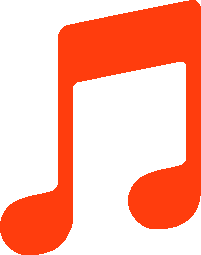
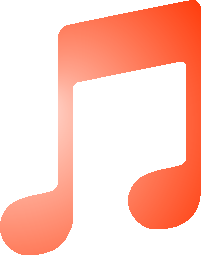
A

diff --git a/src/Components/Header/Header.js b/src/Components/Header/Header.js
@@ -20,24 +20,18 @@ export default function Header(props){
     const history=useHistory();
     return (
         <View style={css.header}>
-            <View style={css.row0}>
-                <AntDesign name="banckward" {...css.arrow} onPress={()=>{
-                    if(state.pathindex){
-                        state.pathindex--;
-                        history.goBack();
-                    }
-                }}/>
-                <Text style={css.title}>Animator</Text>
-                <AntDesign name="forward" {...css.arrow} onPress={()=>{
-                    if(state.pathindex<length-1){
-                        state.pathindex++;
-                        history.push(paths[state.pathindex]);
-                    }
-                }}/>
-            </View>
-            <View style={css.row1}>
-                <Text>{location.pathname}</Text>
-            </View>
+            <AntDesign name="banckward" {...css.arrow} onPress={()=>{
+                if(state.pathindex){
+                    state.pathindex--;
+                    history.goBack();
+                }
+            }}/>
+            <AntDesign name="forward" {...css.arrow} onPress={()=>{
+                if(state.pathindex<length-1){
+                    state.pathindex++;
+                    history.push(paths[state.pathindex]);
+                }
+            }}/>
         </View>
     )
 }

diff --git a/src/Components/Header/Header.style.js b/src/Components/Header/Header.style.js
@@ -5,26 +5,21 @@ import {} from "afile";
 
 const css={...StyleSheet.create({
     header:{
-        paddingVertical:2*rem,
-        justifyContent:"center",
-        backgroundColor:"#dc143c",
-        borderBottomWidth:5,
-        borderBottomColor:"black",
-    },
-    row0:{
+        position:"absolute",
+        top:0,
+        width:"100%",
+        paddingTop:3*rem,
         flexDirection:"row",
-        justifyContent:"space-around",
+        justifyContent:"space-between",
         alignItems:"center",
-    },
-    row1:{
-        alignItems:"center",
-    },
-    title:{
-        fontSize:3*rem,
-        color:"white",
+        zIndex:100,
     },
 }),...{
     arrow:{
+        style:{
+            opacity:0.5,
+            marginHorizontal:2*rem,
+        },
         color:"white",
         size:2*rem,
     },

diff --git a/src/Routes/Animation7/Animation7.js b/src/Routes/Animation7/Animation7.js
@@ -2,11 +2,15 @@ import React from "react";
 import {View} from "react-native";
 import css from "./Animation7.style";
 import {Player,PlayerMotion,PlayerControls} from "components";
+import {LinearGradient} from "expo-linear-gradient";
 
 
 export default function Animation7(){
     return (
         <View style={css.animation7}>
+            <LinearGradient style={css.background} colors={["#ff3d0d","transparent"]}
+                start={[0,0]} end={[1,1]} locations={[0.01,0.1]}
+            />
             <View style={css.row0}>
                 <Player/>
             </View>

diff --git a/src/Components/Player/Player.style.js b/src/Components/Player/Player.style.js
@@ -4,8 +4,8 @@ import {rem,border} from "css";
 
 const css=StyleSheet.create({
     player:{
-        width:5*rem,
-        height:5*rem,
+        width:7*rem,
+        height:7*rem,
         borderRadius:40*rem,
         marginVertical:15,
         justifyContent:"center",
@@ -16,7 +16,7 @@ const css=StyleSheet.create({
     icon:{
         maxWidth:"100%",
         resizeMode:"contain",
-        marginRight:1*rem,
+        //marginRight:1*rem,
     },
 });
 

diff --git a/src/Assets/index.js b/src/Assets/index.js
@@ -21,6 +21,7 @@ export {default as music1} from "./Images/Music_1.png";
 export {default as play1} from "./Images/Play_1.png";
 export {default as pause0} from "./Images/Pause_0.png";
 export {default as arrow2} from "./Images/Arrow_2.png";
+export {default as disc0} from "./Images/Disc_0.png";
 
 //Fonts:
 export {default as princesssofia} from "./Fonts/PrincessSofia-Regular.ttf";

diff --git a/src/Routes/Animation7/Animation7.style.js b/src/Routes/Animation7/Animation7.style.js
@@ -8,6 +8,13 @@ const css=StyleSheet.create({
         flex:1,
         backgroundColor:"#1b1b1b",
     },
+    background:{
+        position:"absolute",
+        top:0,
+        width:"100%",
+        height:"50%",
+        //transform:[{rotateZ:"180deg"}]
+    },
     row0:{
         width:"100%",
         justifyContent:"center",

diff --git a/src/Components/Player/Player.js b/src/Components/Player/Player.js
@@ -1,7 +1,7 @@
 import React from "react";
 import {View,Image,Animated} from "react-native";
 import css from "./Player.style";
-import {music1} from "assets";
+import {music1,disc0} from "assets";
 
 
 export default function Player(props){
